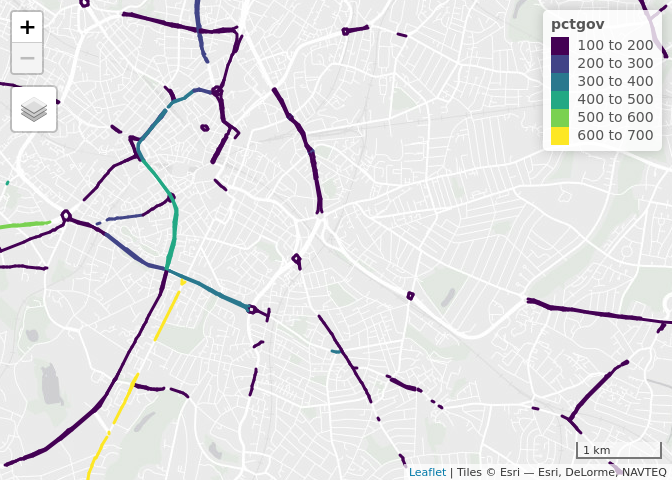
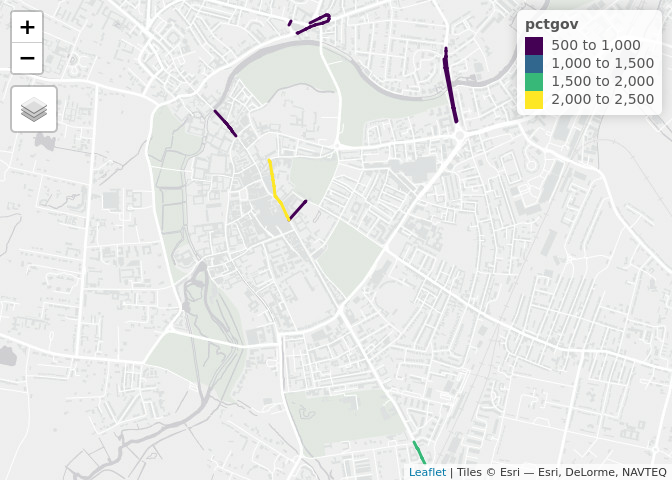
Update with results for Cambridge
Heads-up @mvl22

diff --git a/README.md b/README.md
@@ -106,7 +106,7 @@ The top 10 roads:
 | Hunslet Road      | A639  | primary   | Leeds  |    221 |   1860 |
 | The Headrow       |       | service   | Leeds  |    216 |    547 |
 
-# Birmingham
+# Cambridge
 
 ![](README_files/figure-gfm/unnamed-chunk-8-1.png)<!-- -->
 
@@ -114,15 +114,13 @@ The top 10 roads:
 
 ![](README_files/figure-gfm/unnamed-chunk-9-1.png)<!-- -->
 
-| name                     | ref   | highway | region     | pctgov | length |
-| :----------------------- | :---- | :------ | :--------- | -----: | -----: |
-| Pershore Road            | A441  | primary | Birmingham |    618 |   3672 |
-| Hagley Road              | A456  | trunk   | Birmingham |    504 |   4229 |
-| Bristol Street           | A38   | trunk   | Birmingham |    474 |   1185 |
-| Suffolk Street Queensway | A38   | trunk   | Birmingham |    410 |   1595 |
-| Queensway                | A38   | trunk   | Birmingham |    332 |   2138 |
-| Belgrave Middleway       | A4540 | trunk   | Birmingham |    306 |   2225 |
-| High Street              | A34   | trunk   | Birmingham |    301 |   1068 |
-| Gravelly Hill North      | A5127 | primary | Birmingham |    261 |    592 |
-| Aldridge Road            | A453  | primary | Birmingham |    260 |   2674 |
-| New Town Row             | A34   | trunk   | Birmingham |    244 |    870 |
+| name                  | ref   | highway     | region    | pctgov | length |
+| :-------------------- | :---- | :---------- | :-------- | -----: | -----: |
+| Saint Andrew’s Street |       | residential | Cambridge |   2449 |    164 |
+| Hobson Street         |       | residential | Cambridge |   2393 |    216 |
+| Hills Road            | A1307 | primary     | Cambridge |   1662 |    147 |
+| Bridge Street         |       | residential | Cambridge |    878 |    194 |
+| Elizabeth Way         | A1134 | primary     | Cambridge |    860 |    812 |
+|                       | A1134 | primary     | Cambridge |    639 |    187 |
+| Emmanuel Street       |       | residential | Cambridge |    586 |    151 |
+| Chesterton Road       | A1134 | primary     | Cambridge |    530 |    194 |
